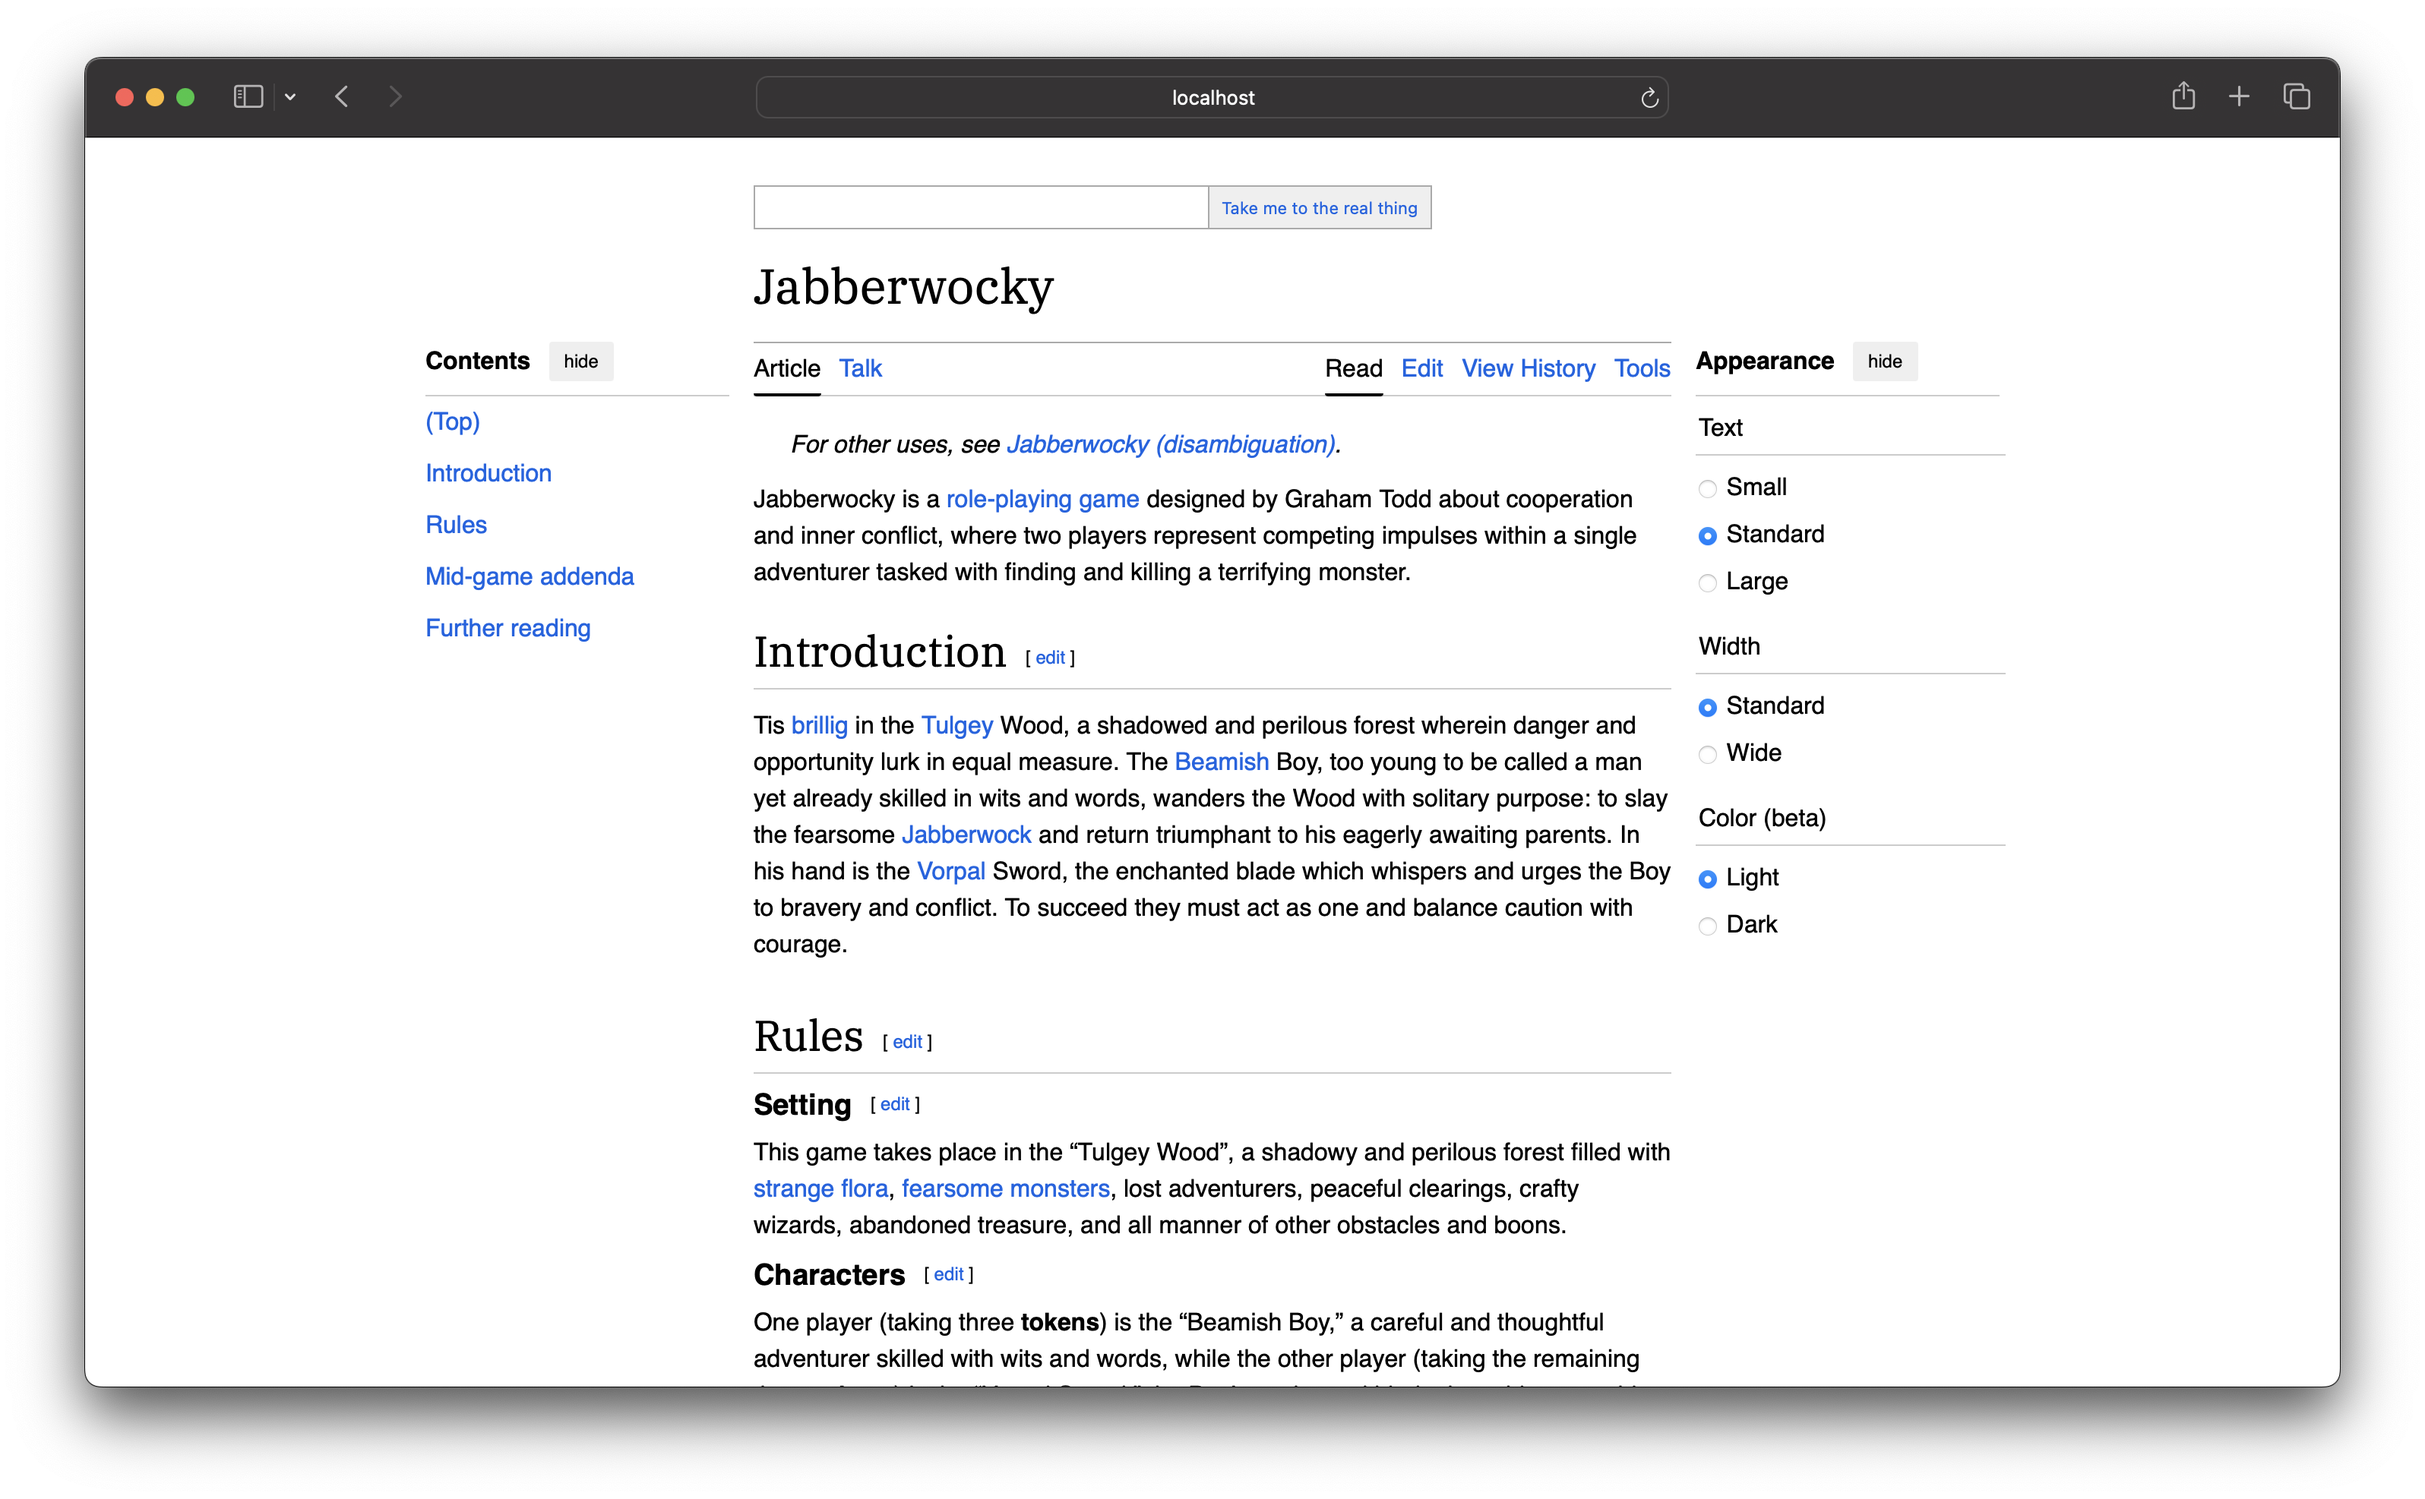
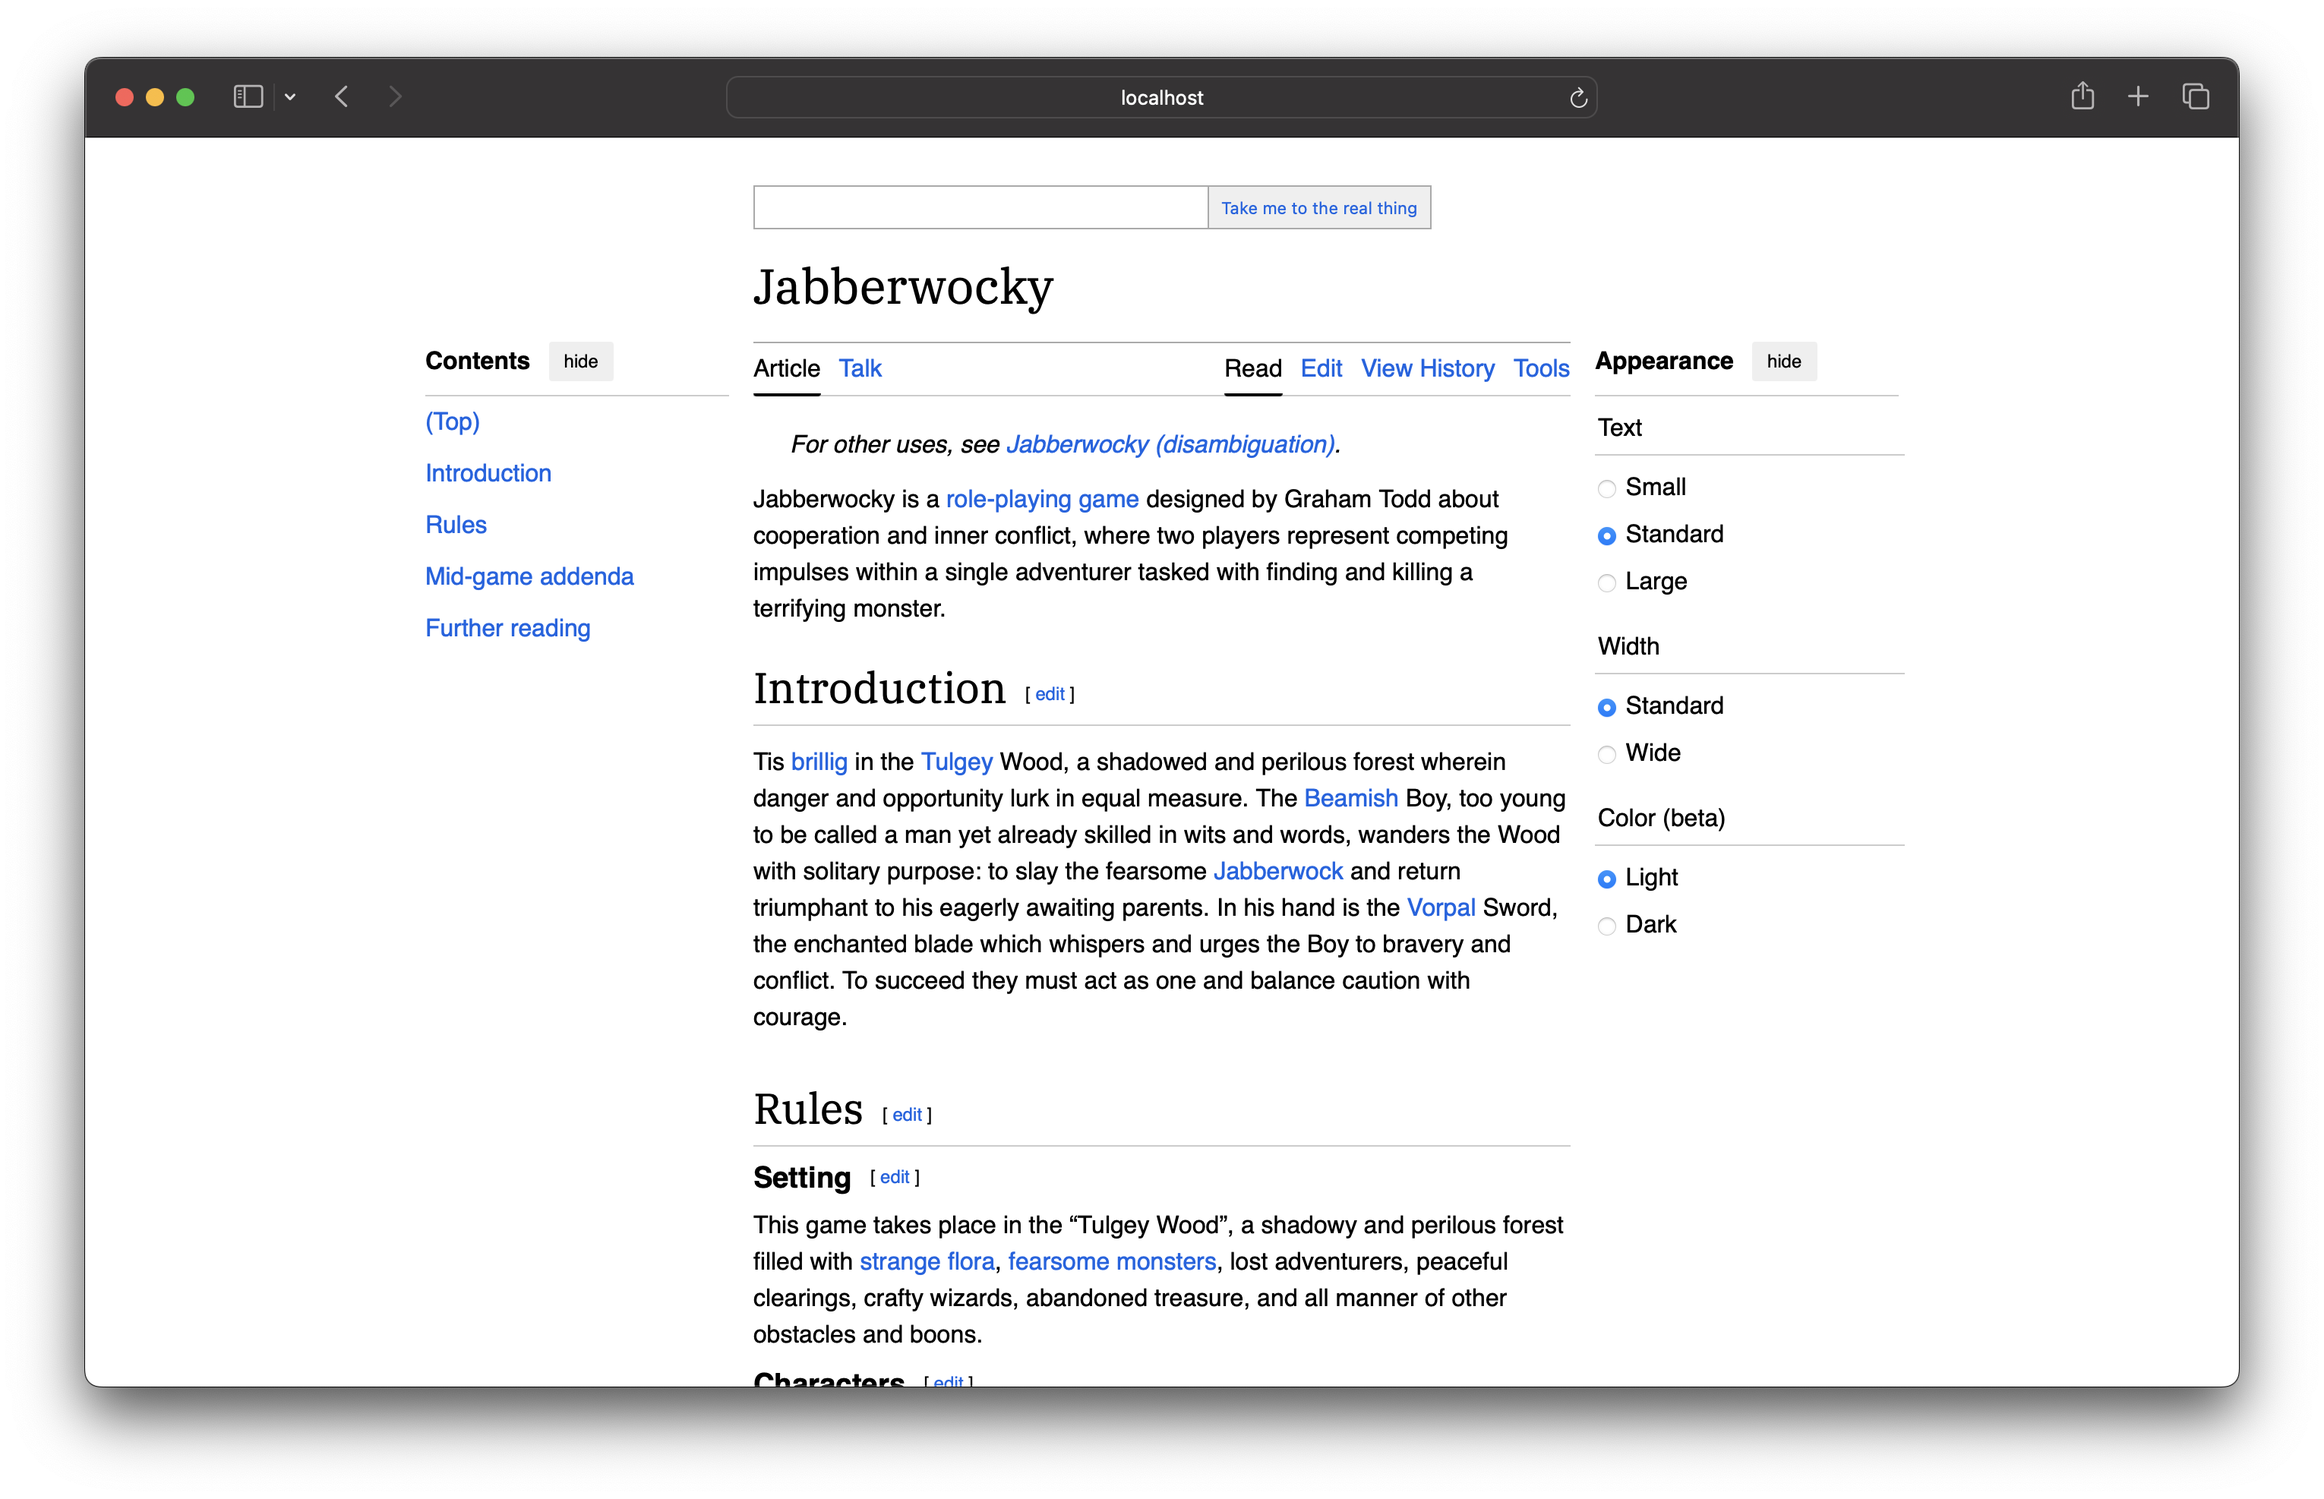
fixes mobile styling

diff --git a/css/style.css b/css/style.css
@@ -169,15 +169,25 @@ p {
         grid-column-end: line5;
     }
 
+
+    .project {
+        margin: 0;
+        padding: 0 0 12px 0;
+    }
+
     .projectname {
         font-weight: 500;
     }
 
     .project-images {
-        height: 200px;
+        height: 180px;
     }
 
     .body {
         grid-column-end: line5;
+    }
+
+    .gif {
+        height: 100%;
     }
 }
